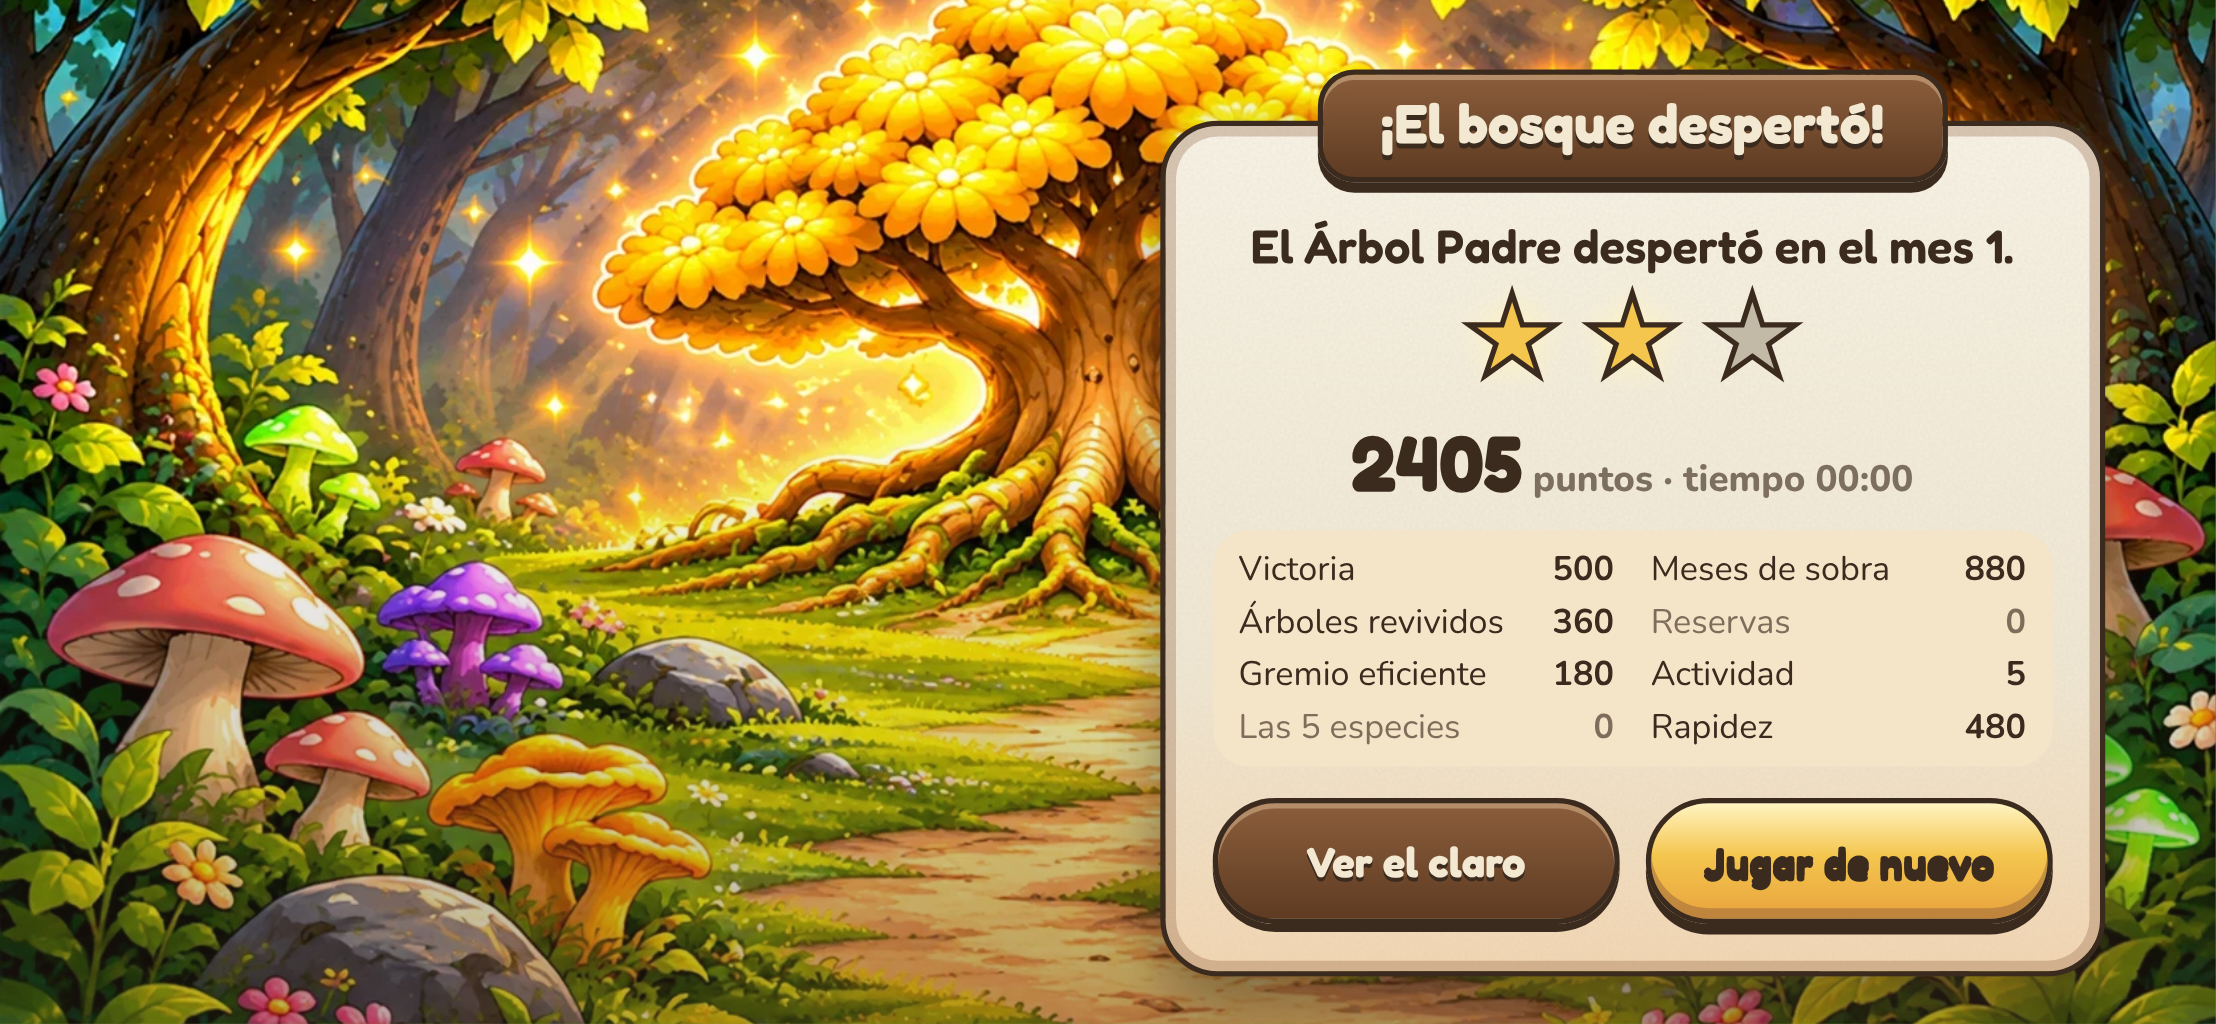
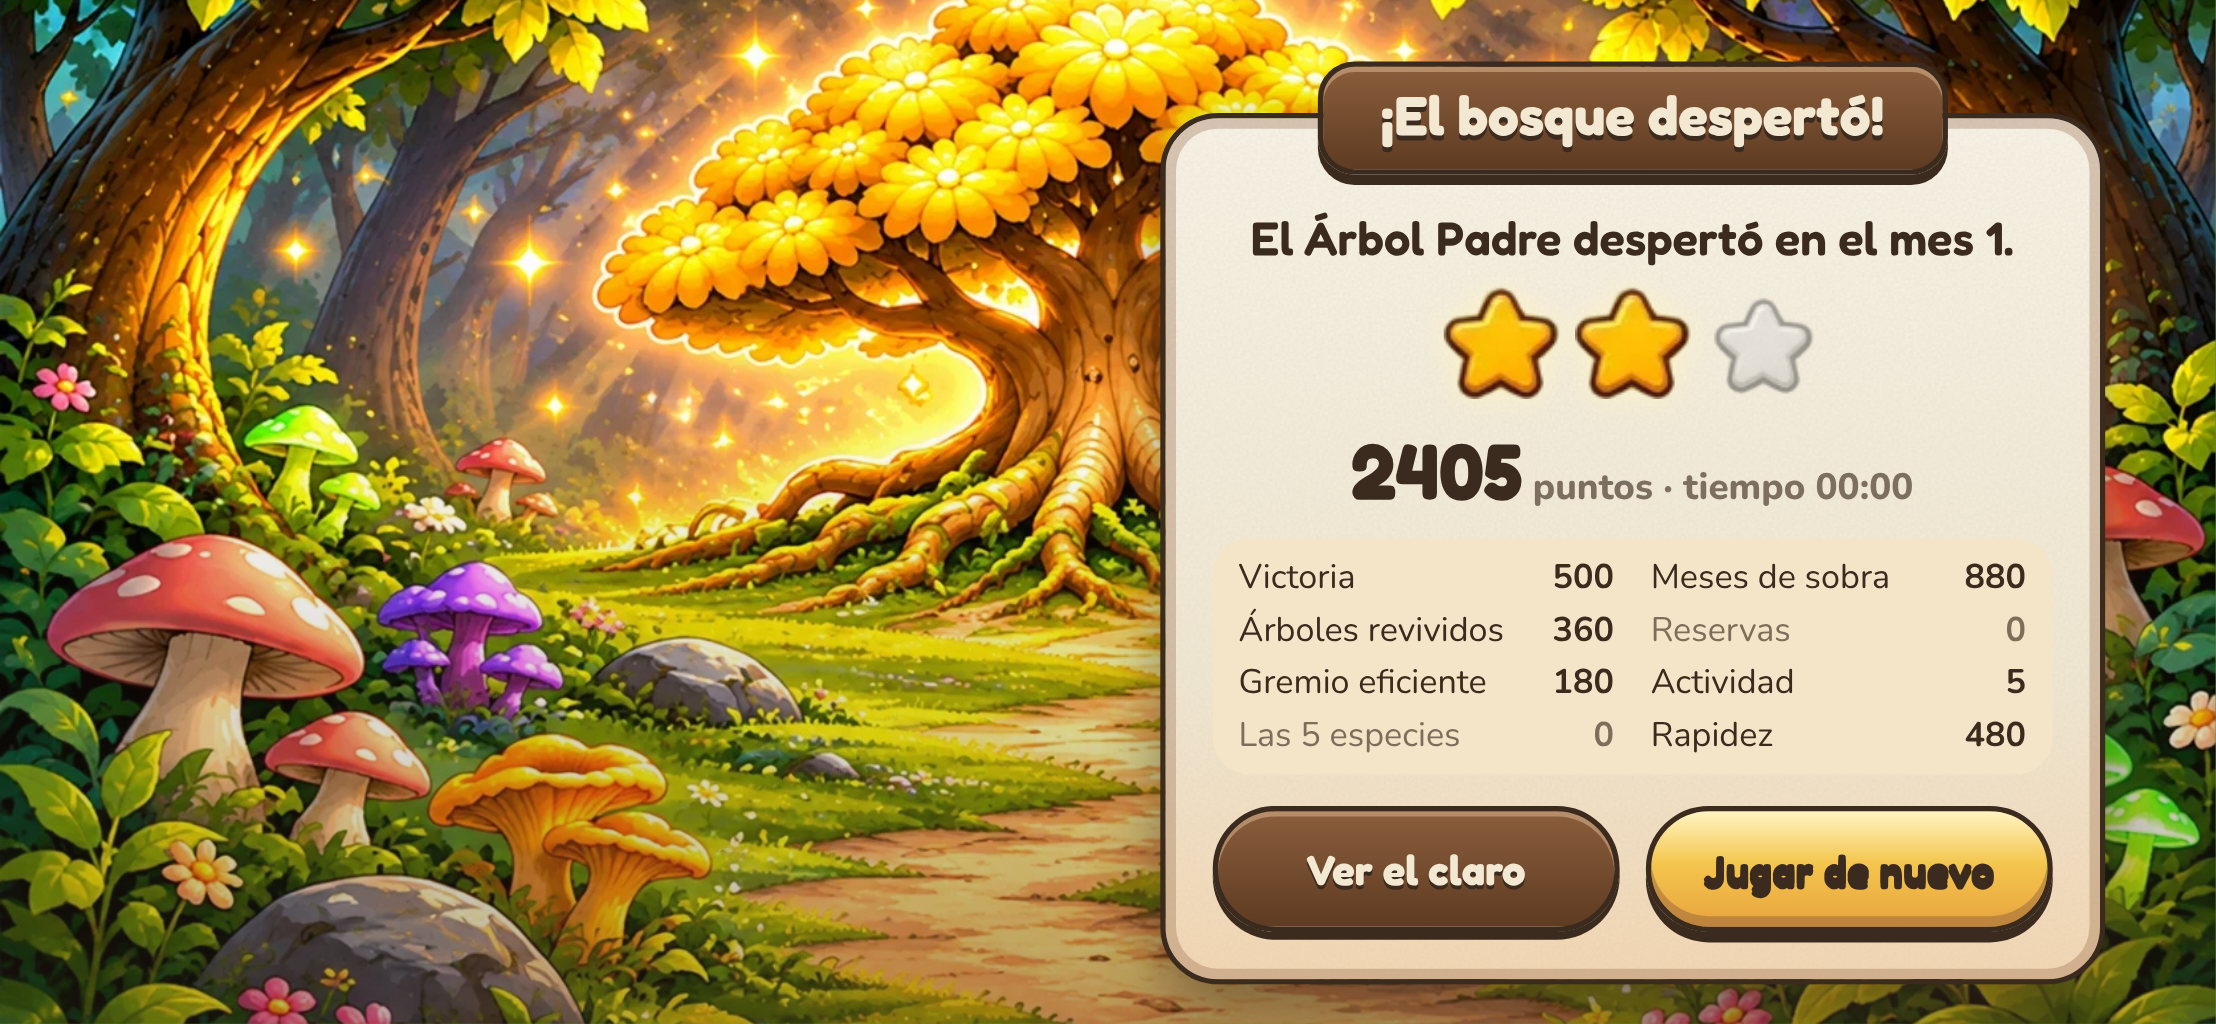
fix(015): estrellas de la carta de victoria con la pieza pintada del tablero
Usa ui/icons/star (la misma de la ★ del tablero); las no ganadas van en
gris, más chicas y translúcidas, así se distinguen sin depender del color.

Claude-Session: https://claude.ai/code/session_017xKxwTBbY17eFiTjGDxCPQ

diff --git a/src/styles.css b/src/styles.css
@@ -742,8 +742,9 @@ button { font: inherit; color: inherit; }
 
 /* ─── Puntaje en la carta de victoria (015) ───────────────────────────────── */
 .score__stars { display: flex; justify-content: center; gap: 6px; margin: -2px 0 0; }
-.score__star { font-size: 38px; line-height: 1; color: color-mix(in srgb, var(--stone) 55%, var(--paper)); -webkit-text-stroke: 2px var(--ink); }
-.score__star.is-on { color: var(--sun); filter: drop-shadow(0 0 6px var(--glow)); }
+/* La misma estrella pintada de la ★ del tablero (ui/icons/star); las no ganadas, en gris y más chicas. */
+.score__star { width: 44px; height: 44px; background: var(--art-star) center / contain no-repeat; filter: grayscale(1) brightness(1.1) opacity(0.45); transform: scale(0.86); }
+.score__star.is-on { filter: drop-shadow(0 0 6px var(--glow)); transform: none; }
 .score__total { margin: 0; font-size: 14px; font-weight: 800; color: var(--ink-soft); }
 .score__total strong { font-family: var(--font-display); font-size: 30px; color: var(--ink); }
 .score__time { font-variant-numeric: tabular-nums; }

diff --git a/src/ui/story.ts b/src/ui/story.ts
@@ -73,7 +73,7 @@ export function mountStory(root: HTMLElement, store: Store, onRestart: () => voi
           const { score, newRecord } = result;
           body.push(
             el('div', { class: 'score__stars', role: 'img', 'aria-label': es.scoring.stars(score.stars) },
-              ...[1, 2, 3].map((n) => el('span', { class: `score__star${n <= score.stars ? ' is-on' : ''}`, 'aria-hidden': 'true' }, '★'))),
+              ...[1, 2, 3].map((n) => el('span', { class: `score__star${n <= score.stars ? ' is-on' : ''}`, 'aria-hidden': 'true' }))),
             el('p', { class: 'score__total' },
               el('strong', {}, String(score.total)), ` ${es.scoring.total}`,
               el('span', { class: 'score__time' }, ` · ${es.scoring.time} ${formatClock(score.timeMs)}`)),

diff --git a/src/theme.ts b/src/theme.ts
@@ -125,6 +125,7 @@ const UI_ART: Record<string, string> = {
   'btn-close': 'ui/buttons/close',
   calendar: 'ui/icons/calendar',
   play: 'ui/icons/play',
+  star: 'ui/icons/star',
   'btn-prev': 'ui/buttons/prev',
   'btn-next': 'ui/buttons/next',
   nutrients: 'ui/icons/nutrients',
